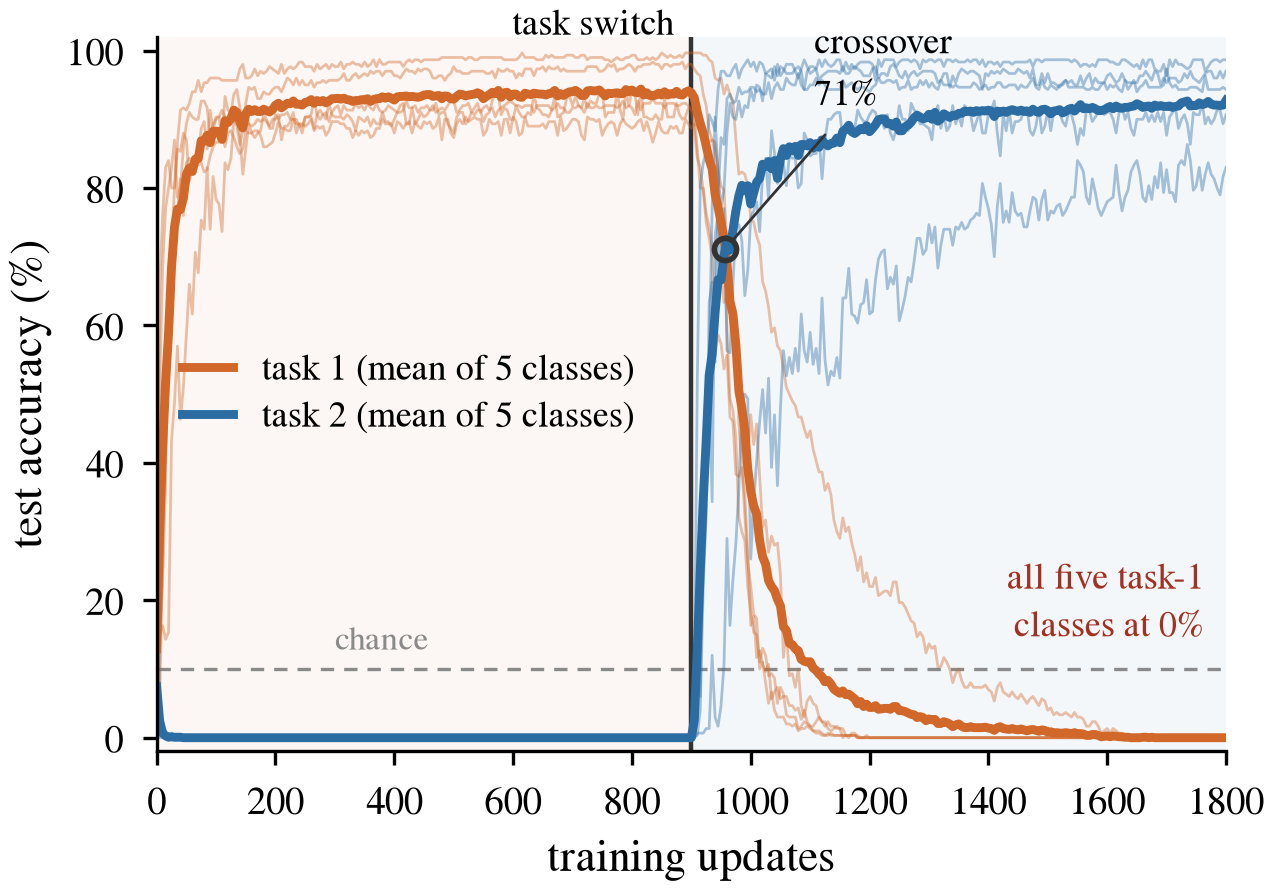
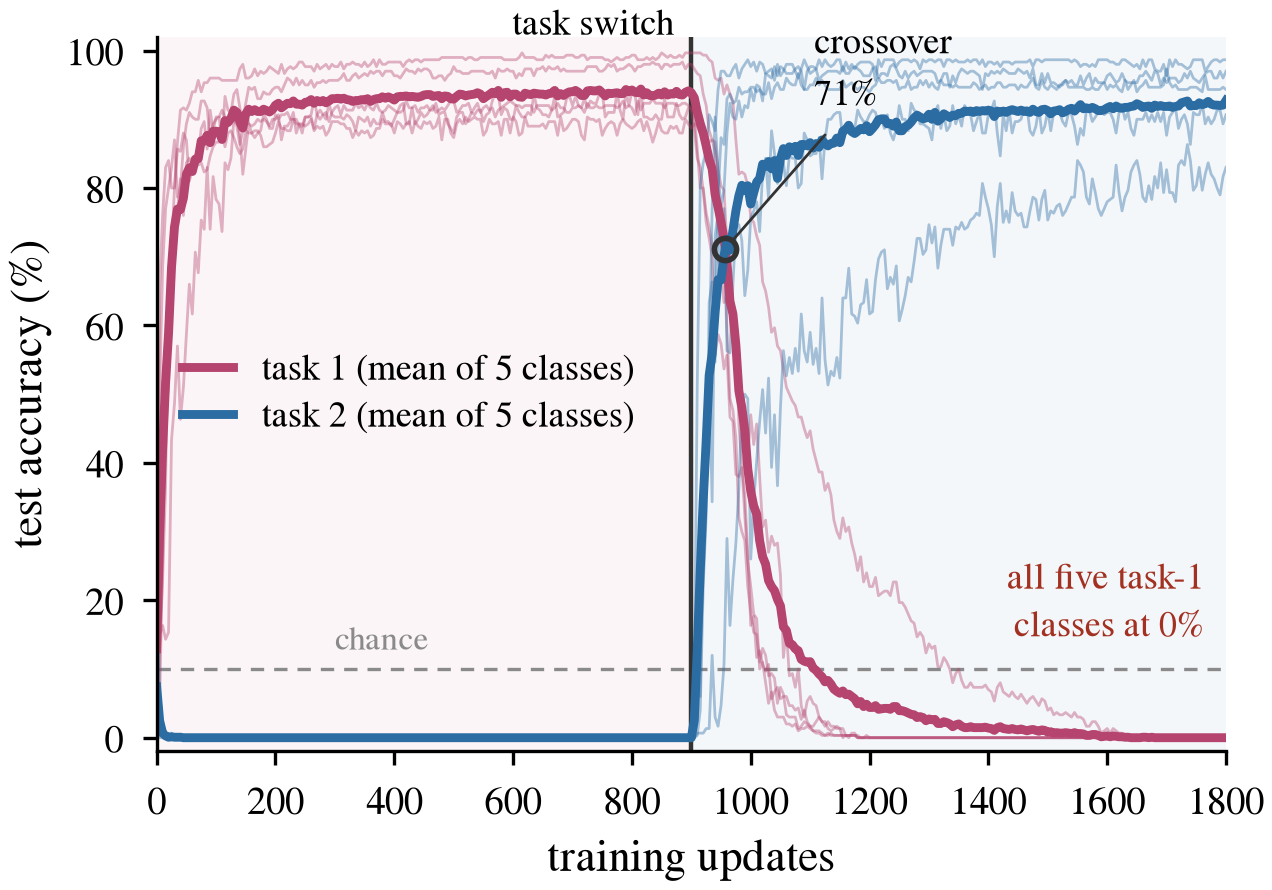
style: task 1 is rose, so orange means only one thing across the report
TASK[0] and RULE["pc"] were the same hex (#d1682a), so orange meant "task 1" in
901 and 911 and "predictive coding" in 913 and 916.

Moved TASK[0] rather than RULE["pc"]. RULE is the palette that had to keep its
colours -- it appears in every comparison and intervention figure and matches
the legacy 340/341/342 sweeps -- whereas TASK appears in two figures that both
carry an in-figure legend. Rose against blue is unambiguous and collides with
nothing else in the module.

Verified per the one-change-at-a-time rule: re-rendered all six 900 scripts and
hashed the output. 901 and 911 changed, which is the intent; the other nine PNGs
(912, 913a/b, 915a/b/c, 916a/b/c) are BIT-IDENTICAL, confirming the edit touched
nothing but the two figures that read TASK.

diff --git a/src/style.py b/src/style.py
@@ -46,7 +46,14 @@ def size(name, ratio=0.72):
 # ---------------------------------------------------------------- colour groupings
 # Matched to the figures already in the repo (340/341/342) so new and legacy agree.
 RULE = {"backprop": "#5c5c5c", "pc": "#d1682a", "replay": "#3f7d3a"}
-TASK = {0: "#d1682a", 1: "#2b6ca3"}                  # task 1 orange, task 2 blue
+
+# Task 1 is ROSE, not orange. It was orange, matching 310/332's own figures -- but that is the
+# same hex as RULE["pc"], so orange meant "task 1" in 901/911 and "predictive coding" in
+# 913/916. RULE is the palette that had to keep its colours: it appears in every comparison and
+# intervention figure and matches the legacy 340/341/342 sweeps, whereas TASK appears in two
+# figures that both carry an in-figure legend. Rose against blue is unambiguous and collides
+# with nothing else defined here.
+TASK = {0: "#b5446e", 1: "#2b6ca3"}                  # task 1 rose, task 2 blue
 
 # Domain-IL is TEAL, not green: 340/341/342 already spend green on replay, and a
 # figure carrying both rules and scenarios would otherwise be ambiguous. Script
